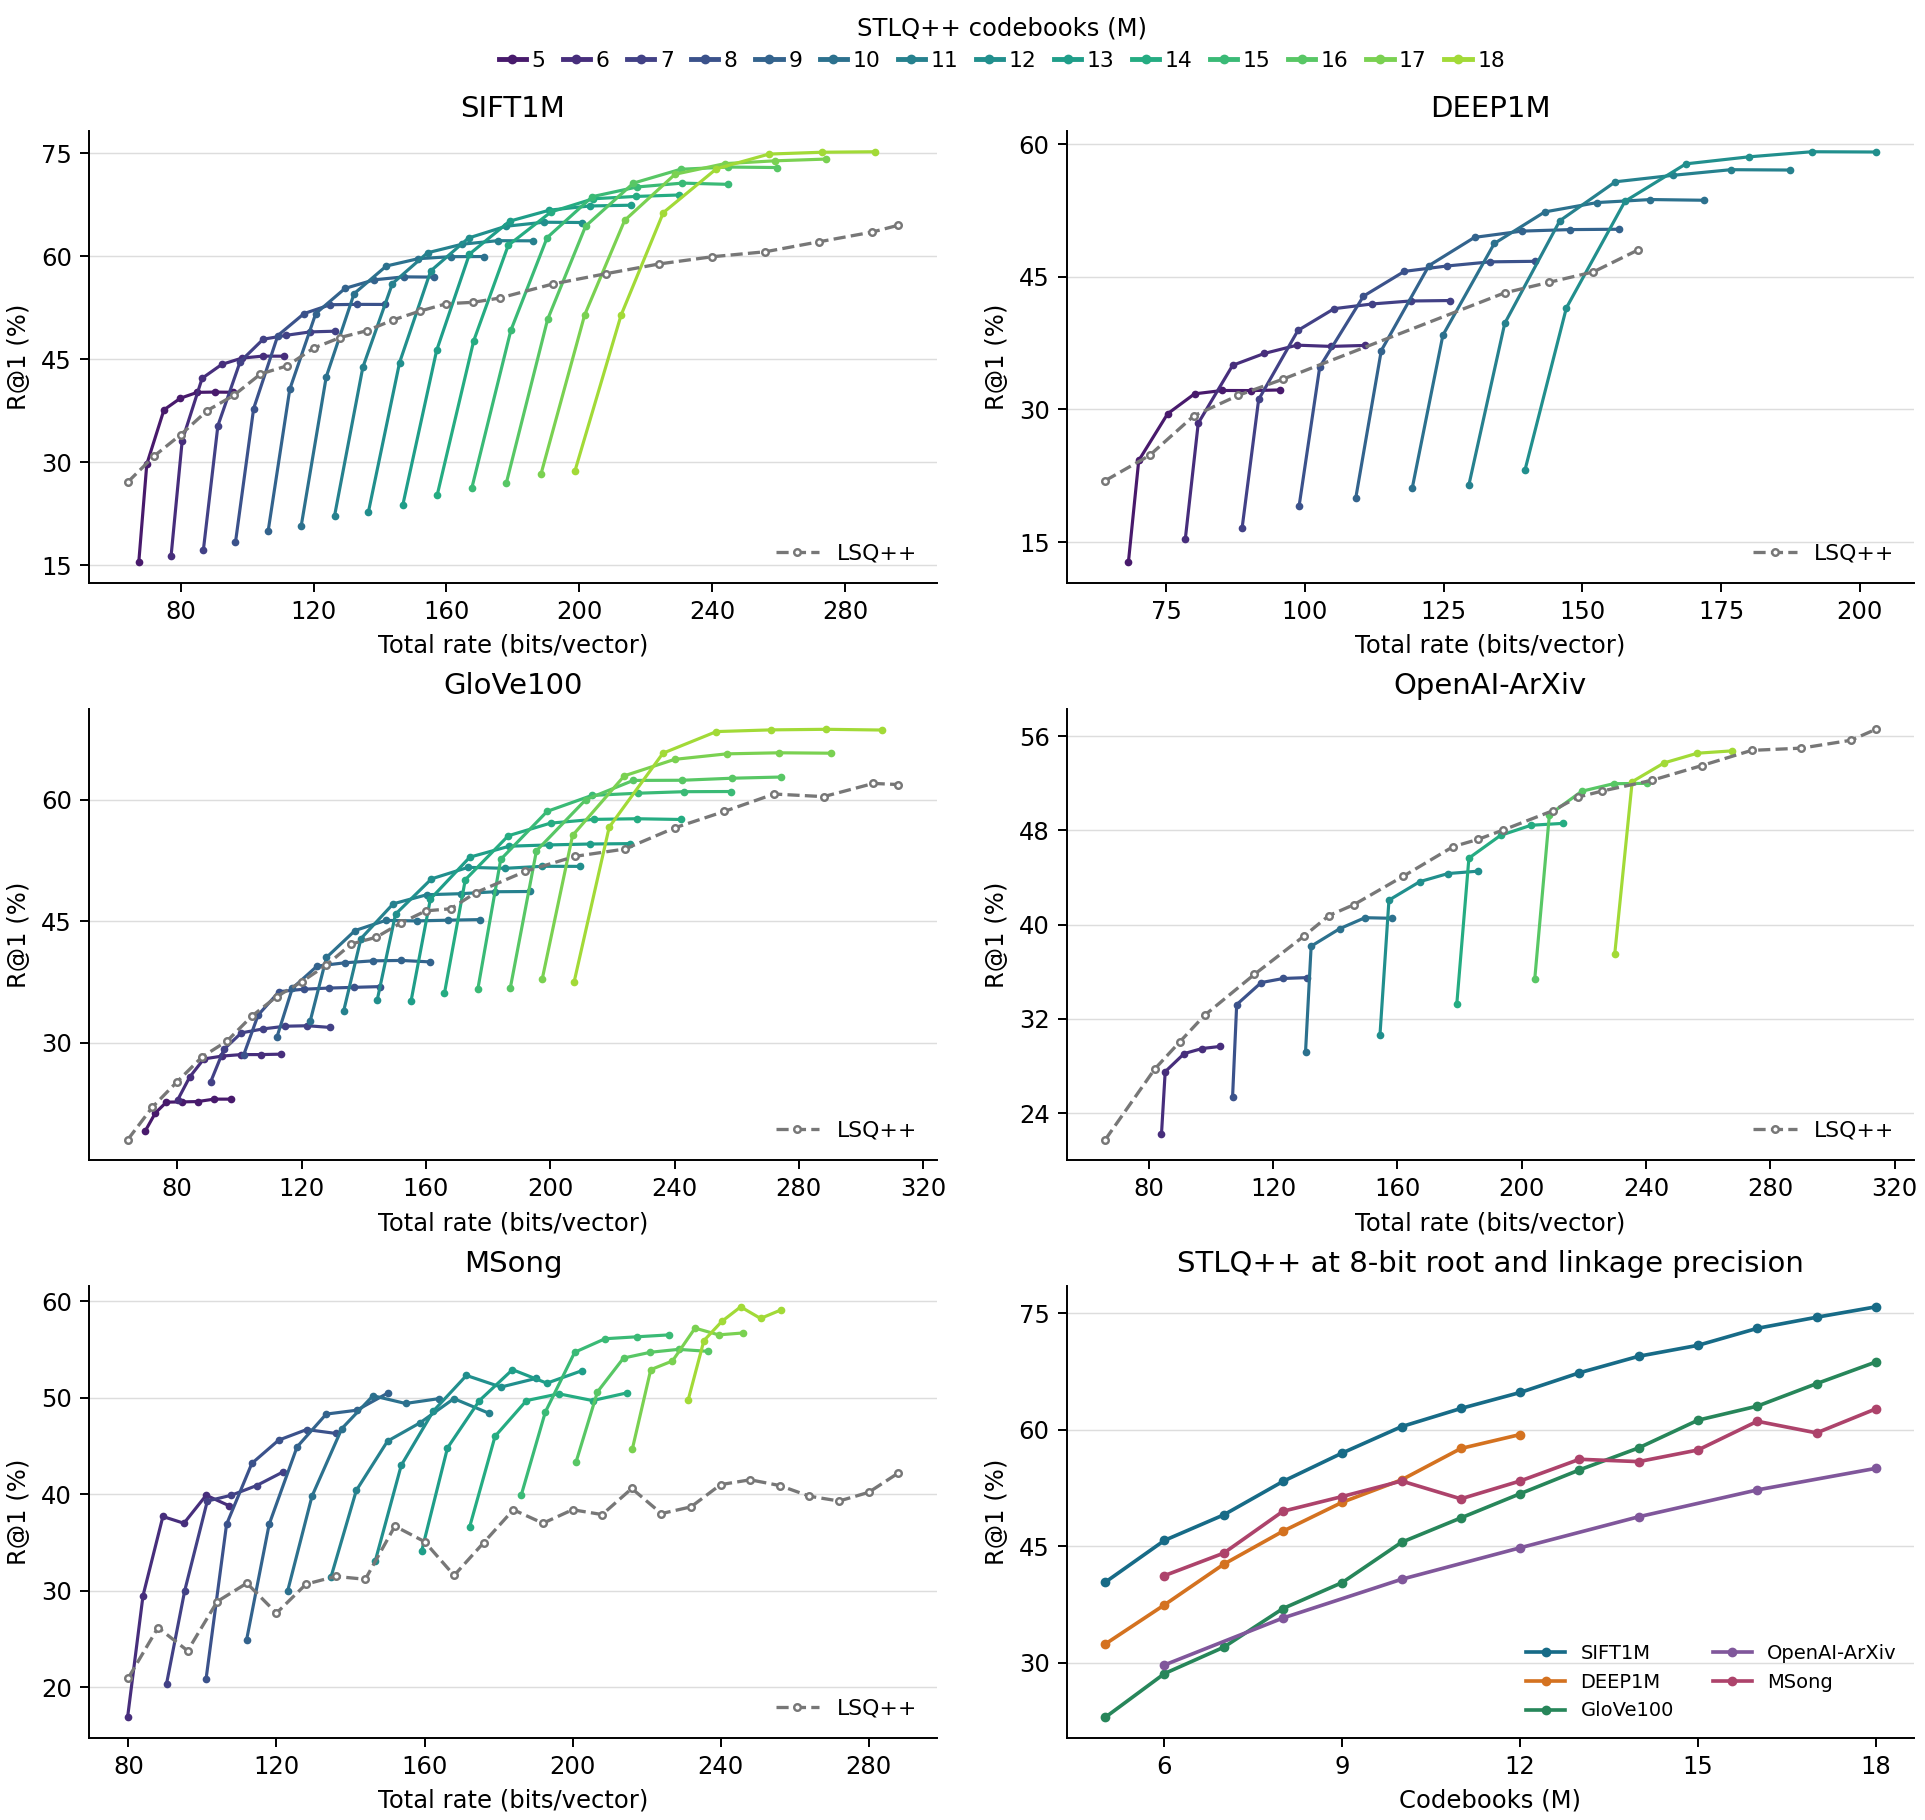
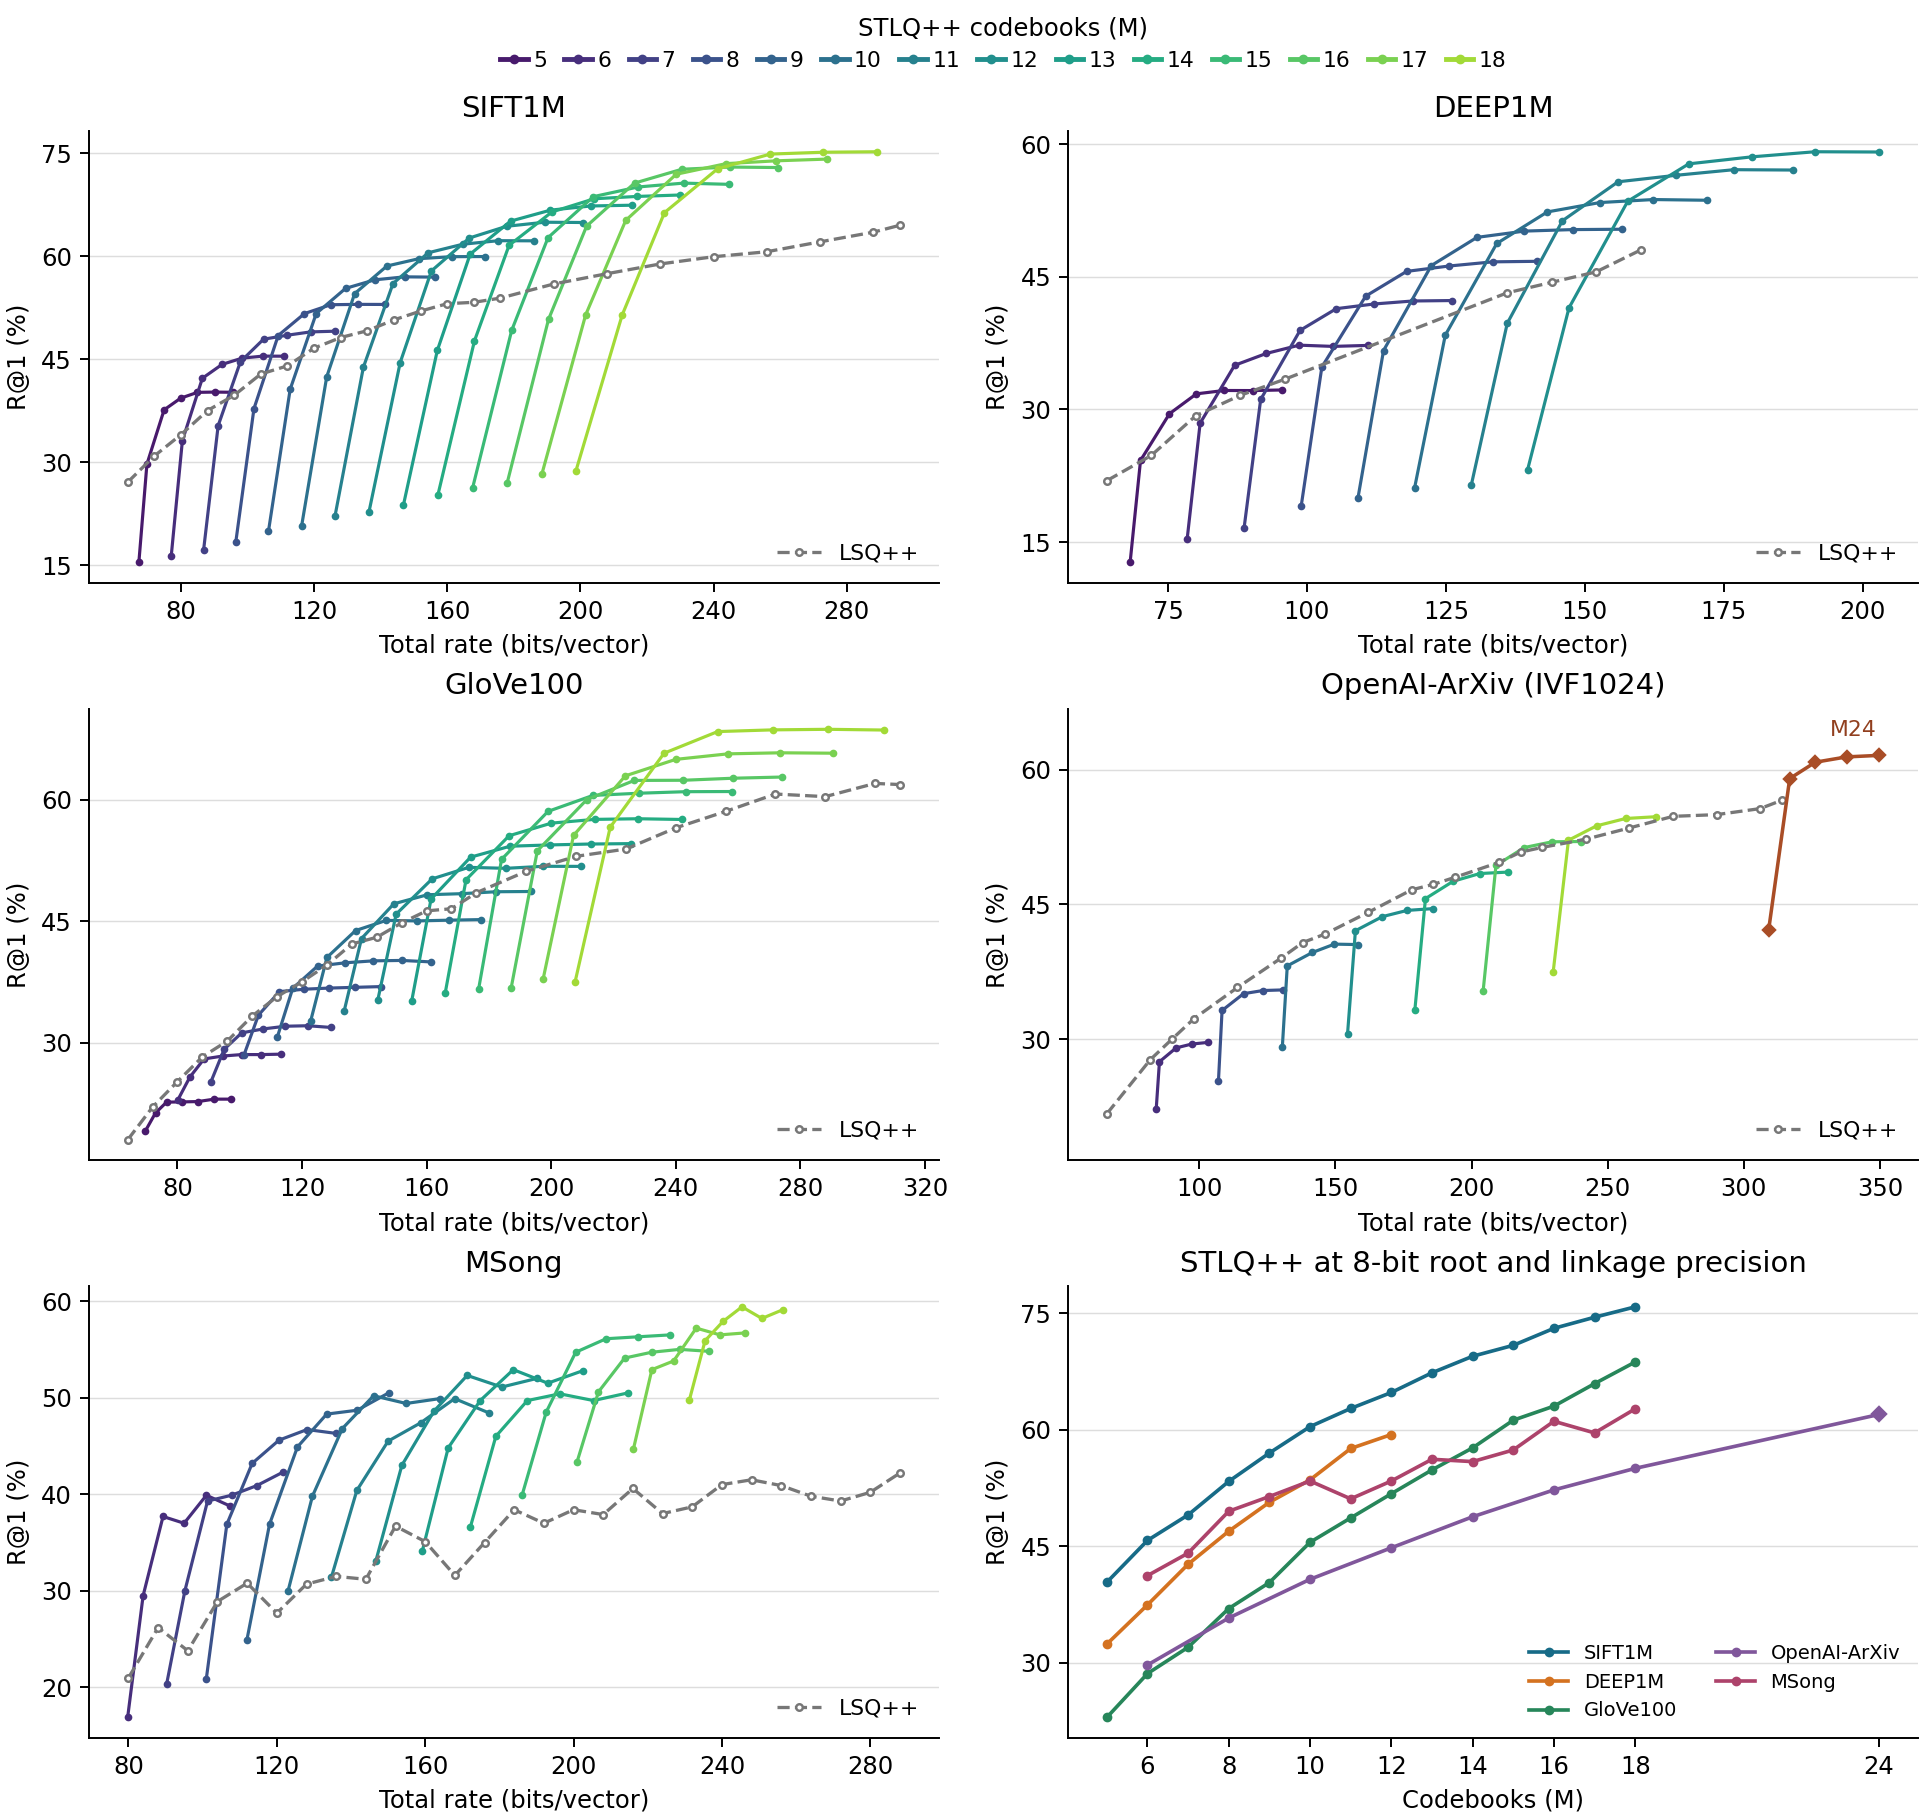
Enrichment rate allocation experiment: (1) favorable region of rate allocation on high-dimensional or angular dataset. (2) two set of codebooks for LSQ++

diff --git a/docs/RATE_ALLOCATION.md b/docs/RATE_ALLOCATION.md
@@ -6,11 +6,29 @@ STLQ++ spends bits on both codeword indices and their coefficients. Increasing t
 
 ![Rate versus recall across all measured code lengths on five datasets, alongside LSQ++, with an additional panel showing recall versus M at fixed 8-bit precision](figures/rate-recall.png)
 
-**Figure 1.** Each colored curve follows one STLQ++ model and forest through a sweep of linkage widths, with root coefficients fixed at 6 bits. The gray dashed line shows LSQ++ across code lengths. Markers show measured configurations. The horizontal axis gives the reported total bits per base vector, including the norm label and IVF assignment. The final panel fixes both STLQ++ coefficient widths at 8 bits and varies M.
+**Figure 1.** Each colored curve follows one STLQ++ model and forest through a sweep of linkage widths, with root coefficients fixed at 6 bits. Diamonds mark the additional M24 measurements on OpenAI-ArXiv. The gray dashed line shows LSQ++ across code lengths. The horizontal axis gives the reported total bits per base vector, including the norm label and IVF assignment. The final panel fixes both STLQ++ coefficient widths at 8 bits and varies M. Markers show measured configurations.
 
 At coarse precision, increasing M generally shifts the rising part of the curve to the right. The curves look roughly like horizontal translations on SIFT and DEEP. On GloVe and OpenAI-ArXiv the flat sections appear earlier, and the rising sections also shift upward. Once a curve flattens, finer coefficients buy little additional recall on that forest. A larger M can reach a higher recall if the budget leaves room for its coefficients. As root reconstructions improve, fewer nodes can lower their reconstruction MSE by taking a parent, and the resulting drop in the linked-node ratio can temper the relative gain in peak recall.
 
 **Read vertically at the intended budget.** On DEEP near 145 bits/vector, M8 with 8-bit linkage reaches 46.77% R@1 at 141.41 bits. M10 with 5-bit linkage reaches **52.36% at 143.24 bits**, while M12 with 3-bit linkage reaches 41.50% at 147.14 bits. Here M10 spends enough bits on both parts of the representation.
+
+### Why does STLQ++ pull ahead at higher rates on OpenAI-ArXiv and GloVe?
+
+On OpenAI-ArXiv, STLQ++ trails LSQ++ near 98 bits/vector (29.48% vs. 32.30% R@1). At 256.57 bits, M18 reaches **54.56%**, ahead of LSQ++ at 258 bits (53.51%). M24 reaches **59.00% at 316.87 bits** with 3-bit linkage coefficients; the nearest LSQ++ measurement is 56.59% at 314 bits. On GloVe, STLQ++ likewise trails near 96 bits (29.21% vs. 30.22%) and leads near 256 bits (68.42% vs. 58.56%).
+
+These curves are consistent with a trade-off in directional resolution. At low rates, assigning bits to coefficients leaves fewer codeword indices to specify a direction. A larger budget can pay for both a richer set of directions and the coefficient precision needed to refine them along the linkage.
+
+### Does a second set of codebooks explain the GloVe result?
+
+STLQ++ M18 uses 18 root codebooks and 18 linkage codebooks. Each node uses the set for its role. On this GloVe100 forest, **95.94% of base vectors** are linked and reuse a parent's reconstruction. To test the effect of extra codebooks at a fixed LSQ++ rate, we split the 256 IVF lists into two groups of 128 with roughly equal training populations. We trained a separate LSQ++ M28 model for each group. A vector's list selects its model, keeping its code at 28 bytes. All 10,000 queries searched the full base.
+
+| Model | Total bits/vector | Shared parameters (MiB) | R@1 (%) | Calibrated R@1 (%) |
+|---|---:|---:|---:|---:|
+| LSQ++ M28, one model | 240.00 | 2.83 | 54.15 | 56.53 |
+| LSQ++ M28, two local models | 240.00 | 5.57 | 53.48 | 56.40 |
+| STLQ++ M18, 6-bit root / 4-bit linkage | 236.27 | 3.55 | **63.59** | **65.75** |
+
+In this single-seed comparison, doubling the LSQ++ codebooks left calibrated R@1 nearly unchanged. The two local models together used more shared parameter memory than STLQ++, yet trailed it by **9.35 percentage points**. Extra codebook capacity alone was insufficient to reproduce the GloVe gain.
 
 ## Root and linkage precision
 
